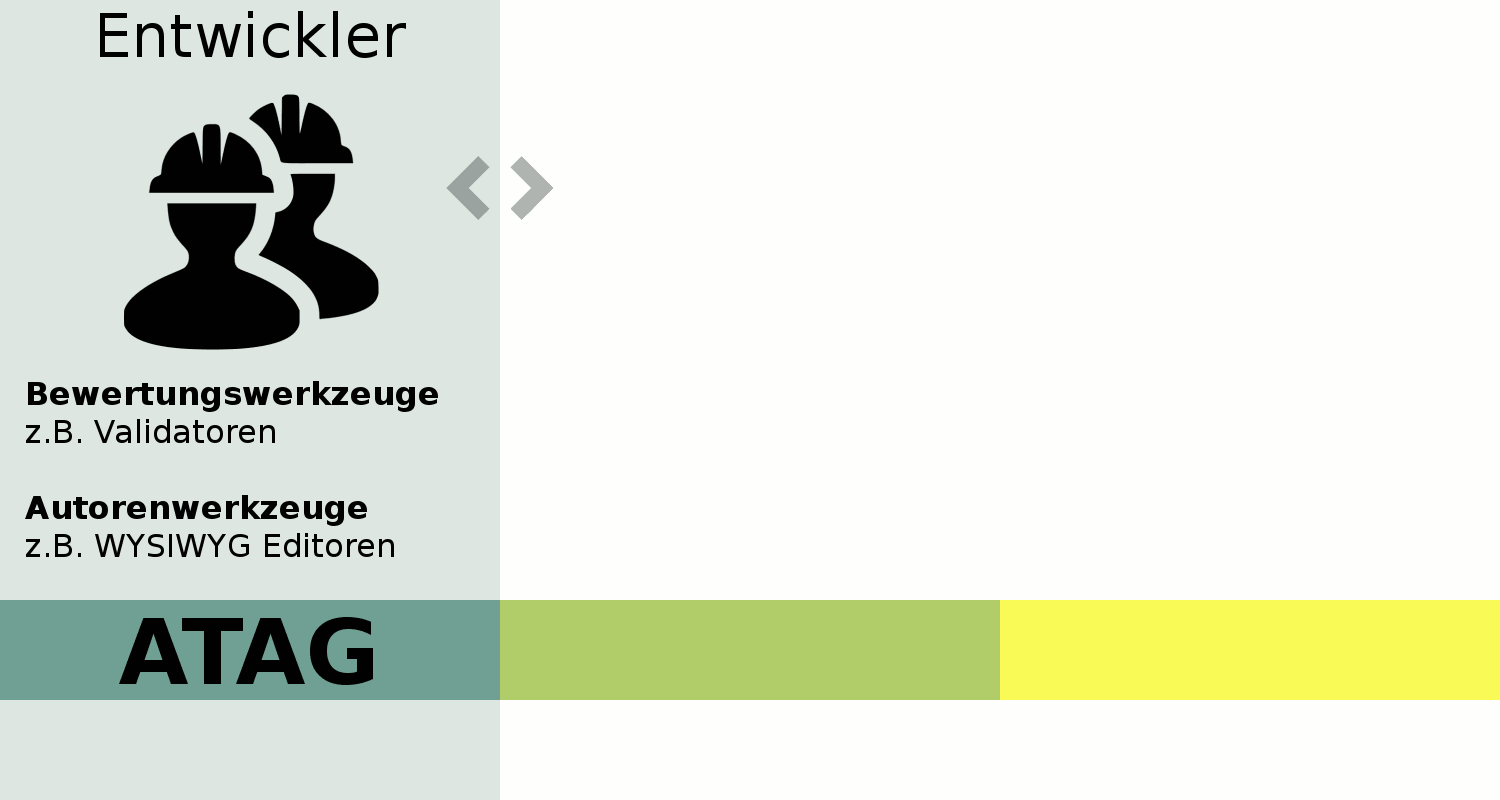
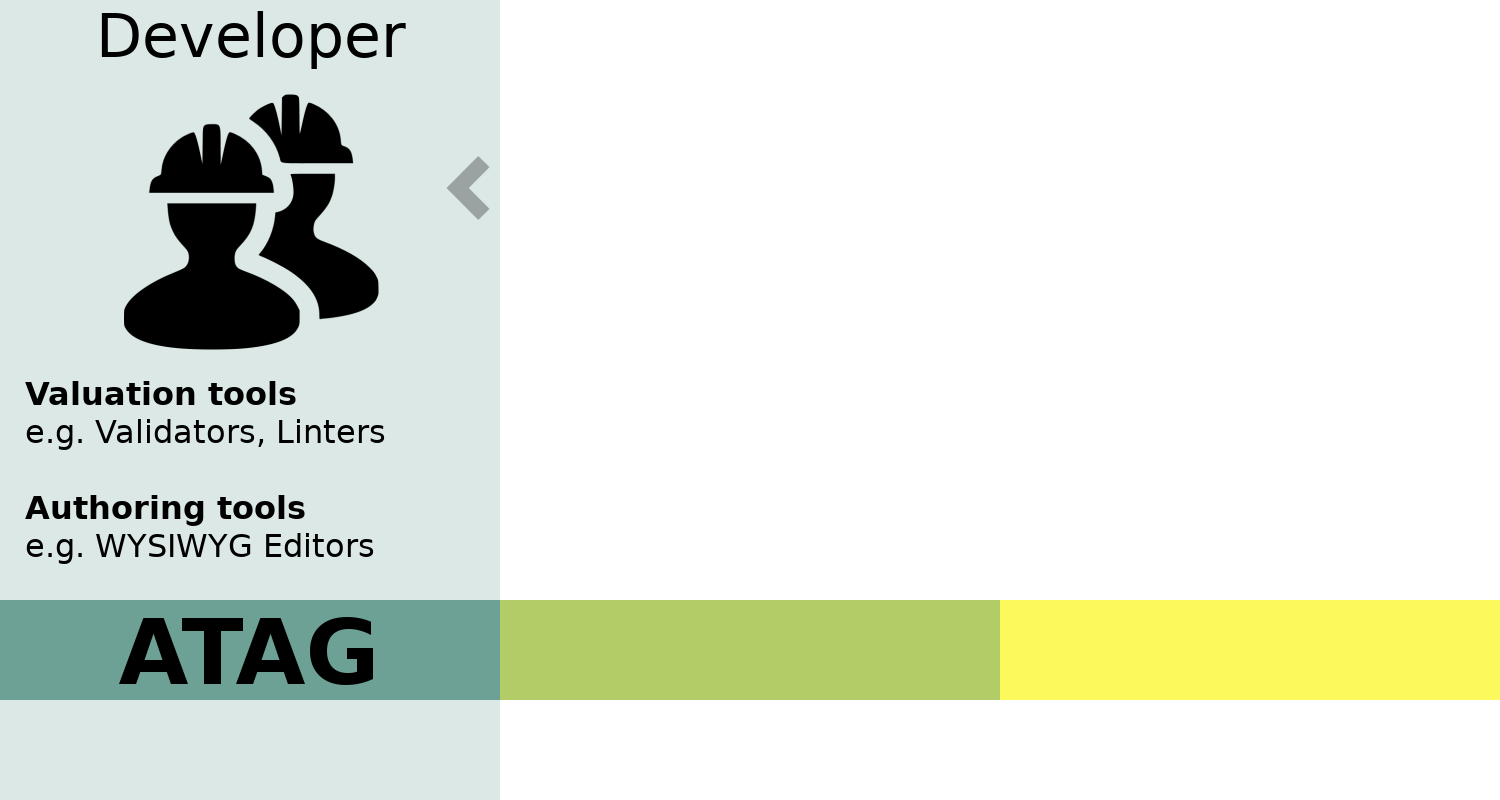
updated and translated components

diff --git a/slides/introduction-to-the-w3c-web-content-accessibility-guidelines/index.html b/slides/introduction-to-the-w3c-web-content-accessibility-guidelines/index.html
@@ -195,8 +195,8 @@ https://www.jonas.me/ -->
             </div>
           </section>
           <section>
-            <h3>Web Accessibility Komponenten</h3>
-            <p>3 Guidelines für Web Accessibility:</p>
+            <h3>Components</h3>
+            <p>There are 3 guidelines for Web accessibility:</p>
             <ul>
               <li>Authoring Tool Accessibility Guidelines (ATAG)</li>
               <li>Web Content Accessibility Guidelines (WCAG)</li>
@@ -204,17 +204,14 @@ https://www.jonas.me/ -->
             </ul>
           </section>
           <section>
-            <h4>Web Accessibility Komponenten</h4>
             <p>Authoring Tool Accessibility Guidelines (ATAG)</p>
             <img style="border: none;" src="img/web-accessibility-components_1.png" alt="Web Accessibility Komponenten">
           </section>
           <section>
-            <h4>Web Accessibility Komponenten</h4>
             <p>Web Content Accessibility Guidelines (WCAG)</p>
             <img style="border: none;" src="img/web-accessibility-components_2.png" alt="Web Accessibility Komponenten">
           </section>
           <section>
-            <h4>Web Accessibility Komponenten</h4>
             <p>User Agent Accessibility Guidelines (UAAG)</p>
             <img style="border: none;" src="img/web-accessibility-components_3.png" alt="Web Accessibility Komponenten">
           </section>
@@ -224,7 +221,7 @@ https://www.jonas.me/ -->
             <p></p>
           </section>
           <section>
-            <h4>Web Accessibility Working Group (WA WG)</h4>
+            <h4>WCAG Working Group (WCAG WG)</h4>
             <p>Auszug der Mitgliederliste:</p>
             <ul>
               <li>Steve Faulkner, <i>The Paciello Group</i></li>
